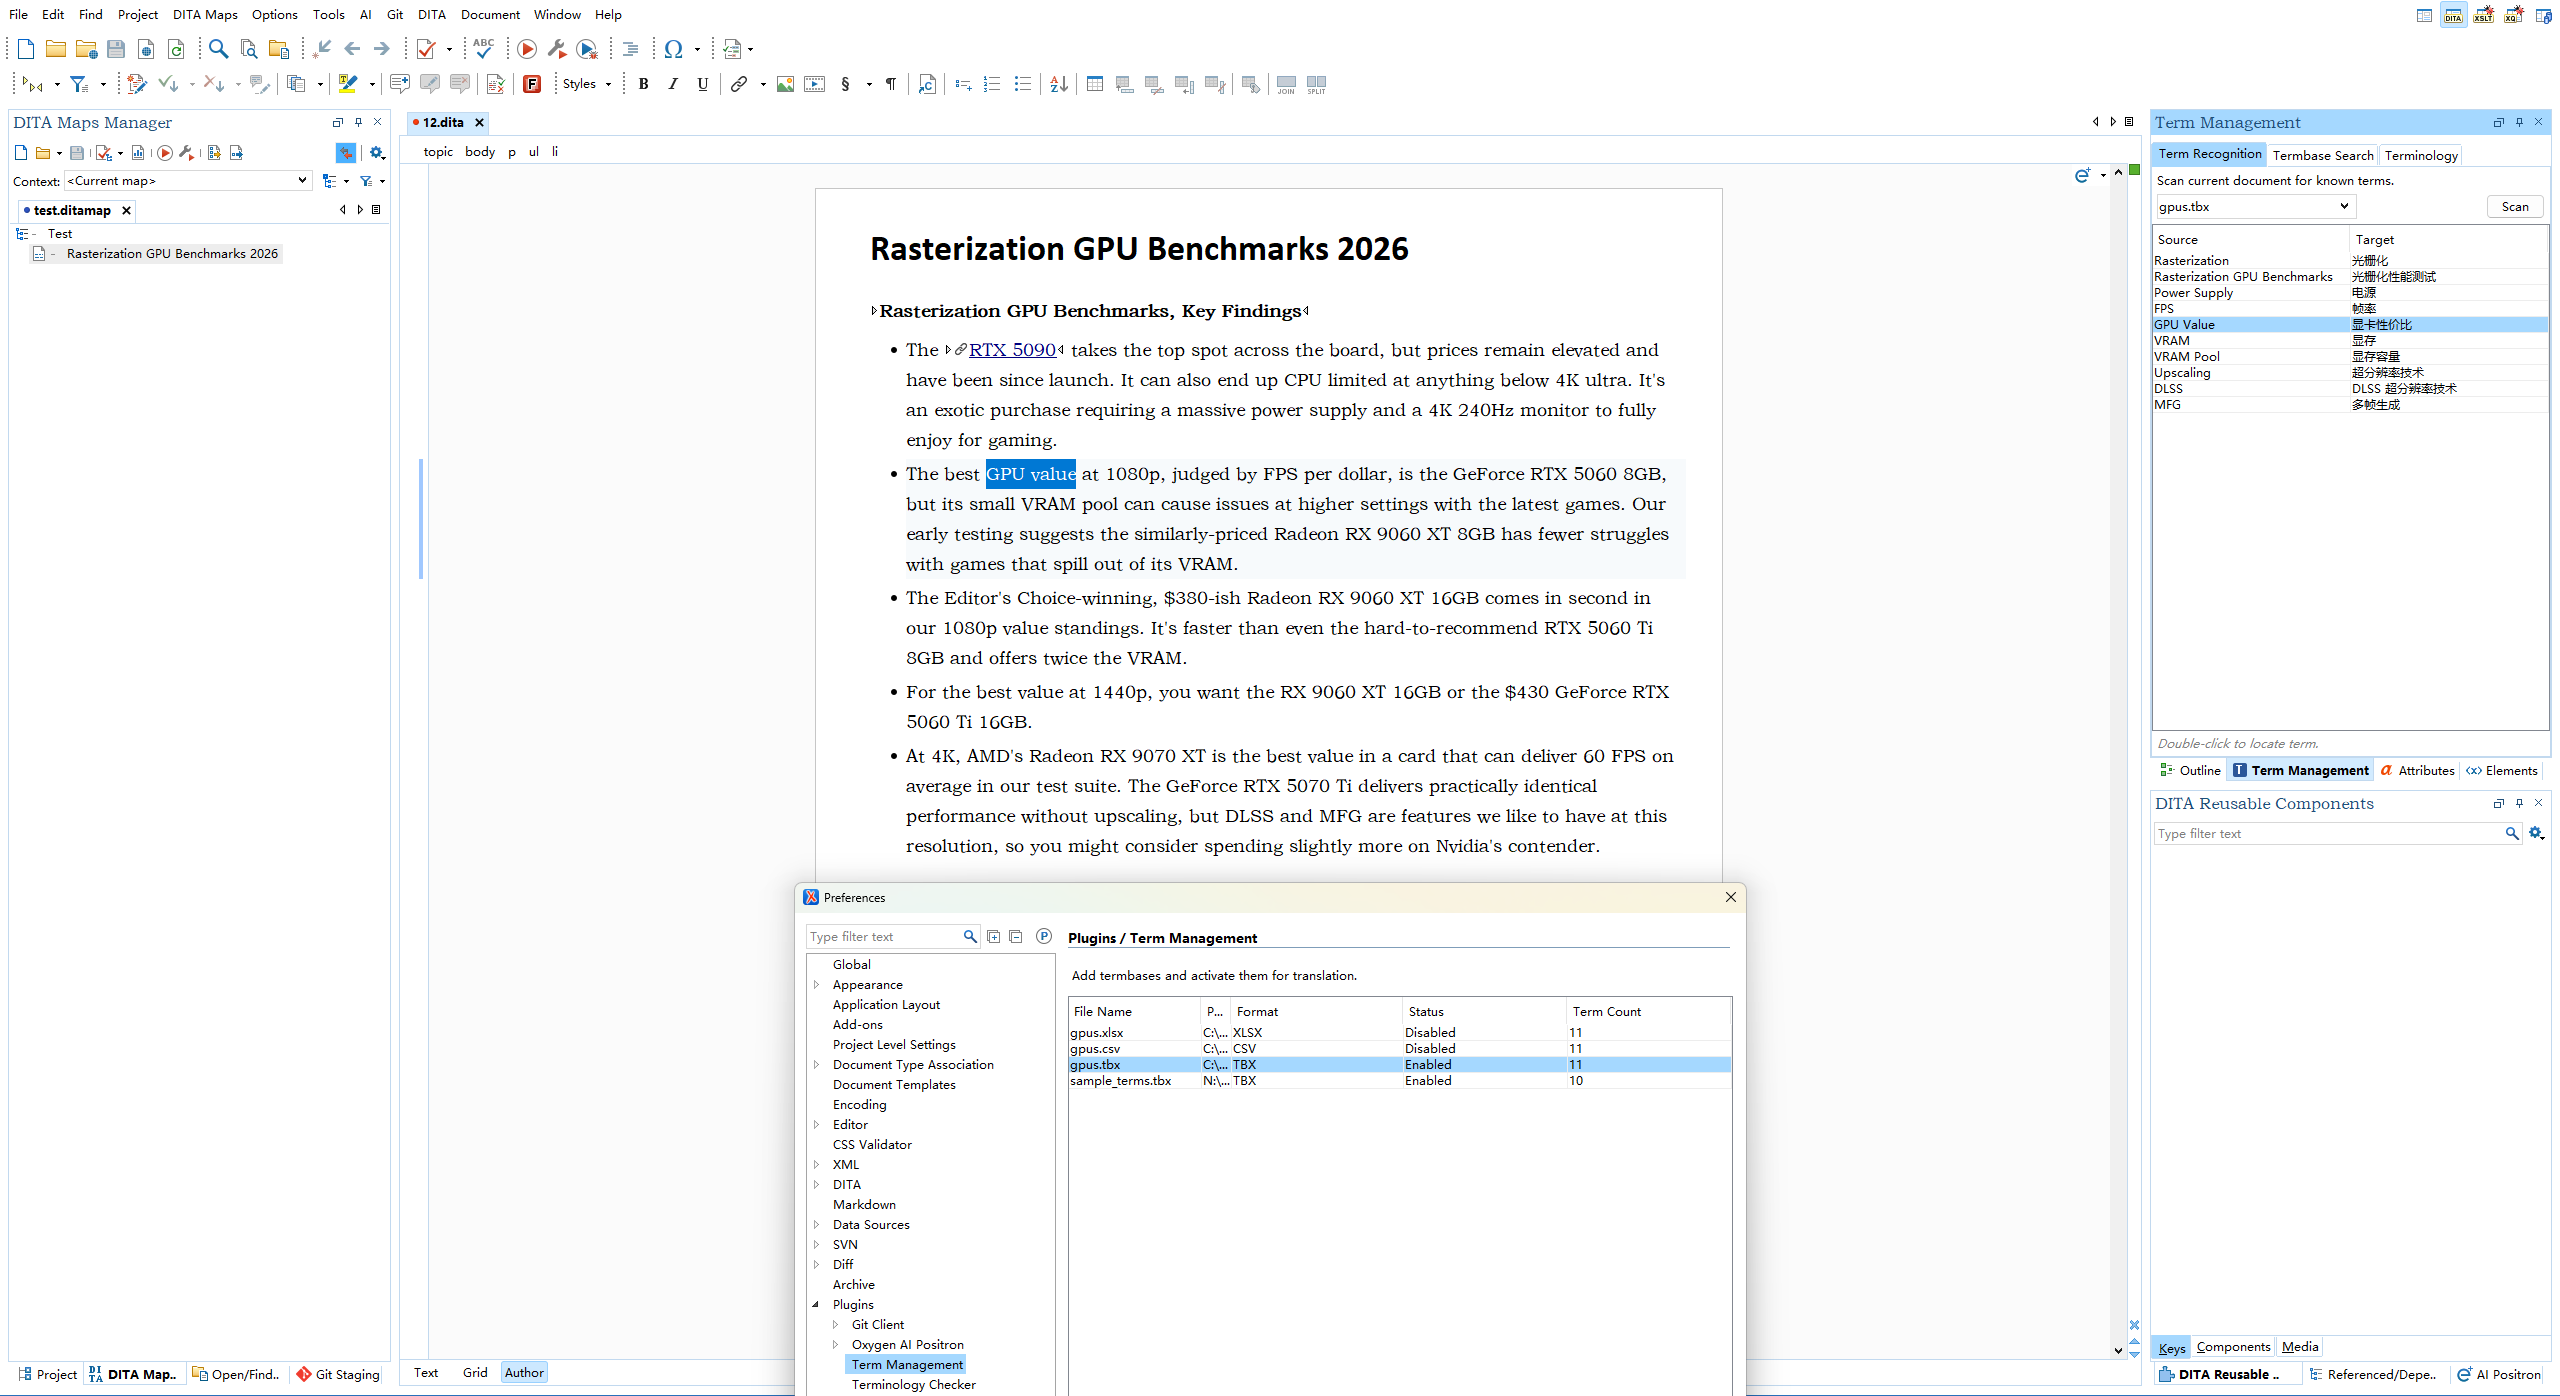
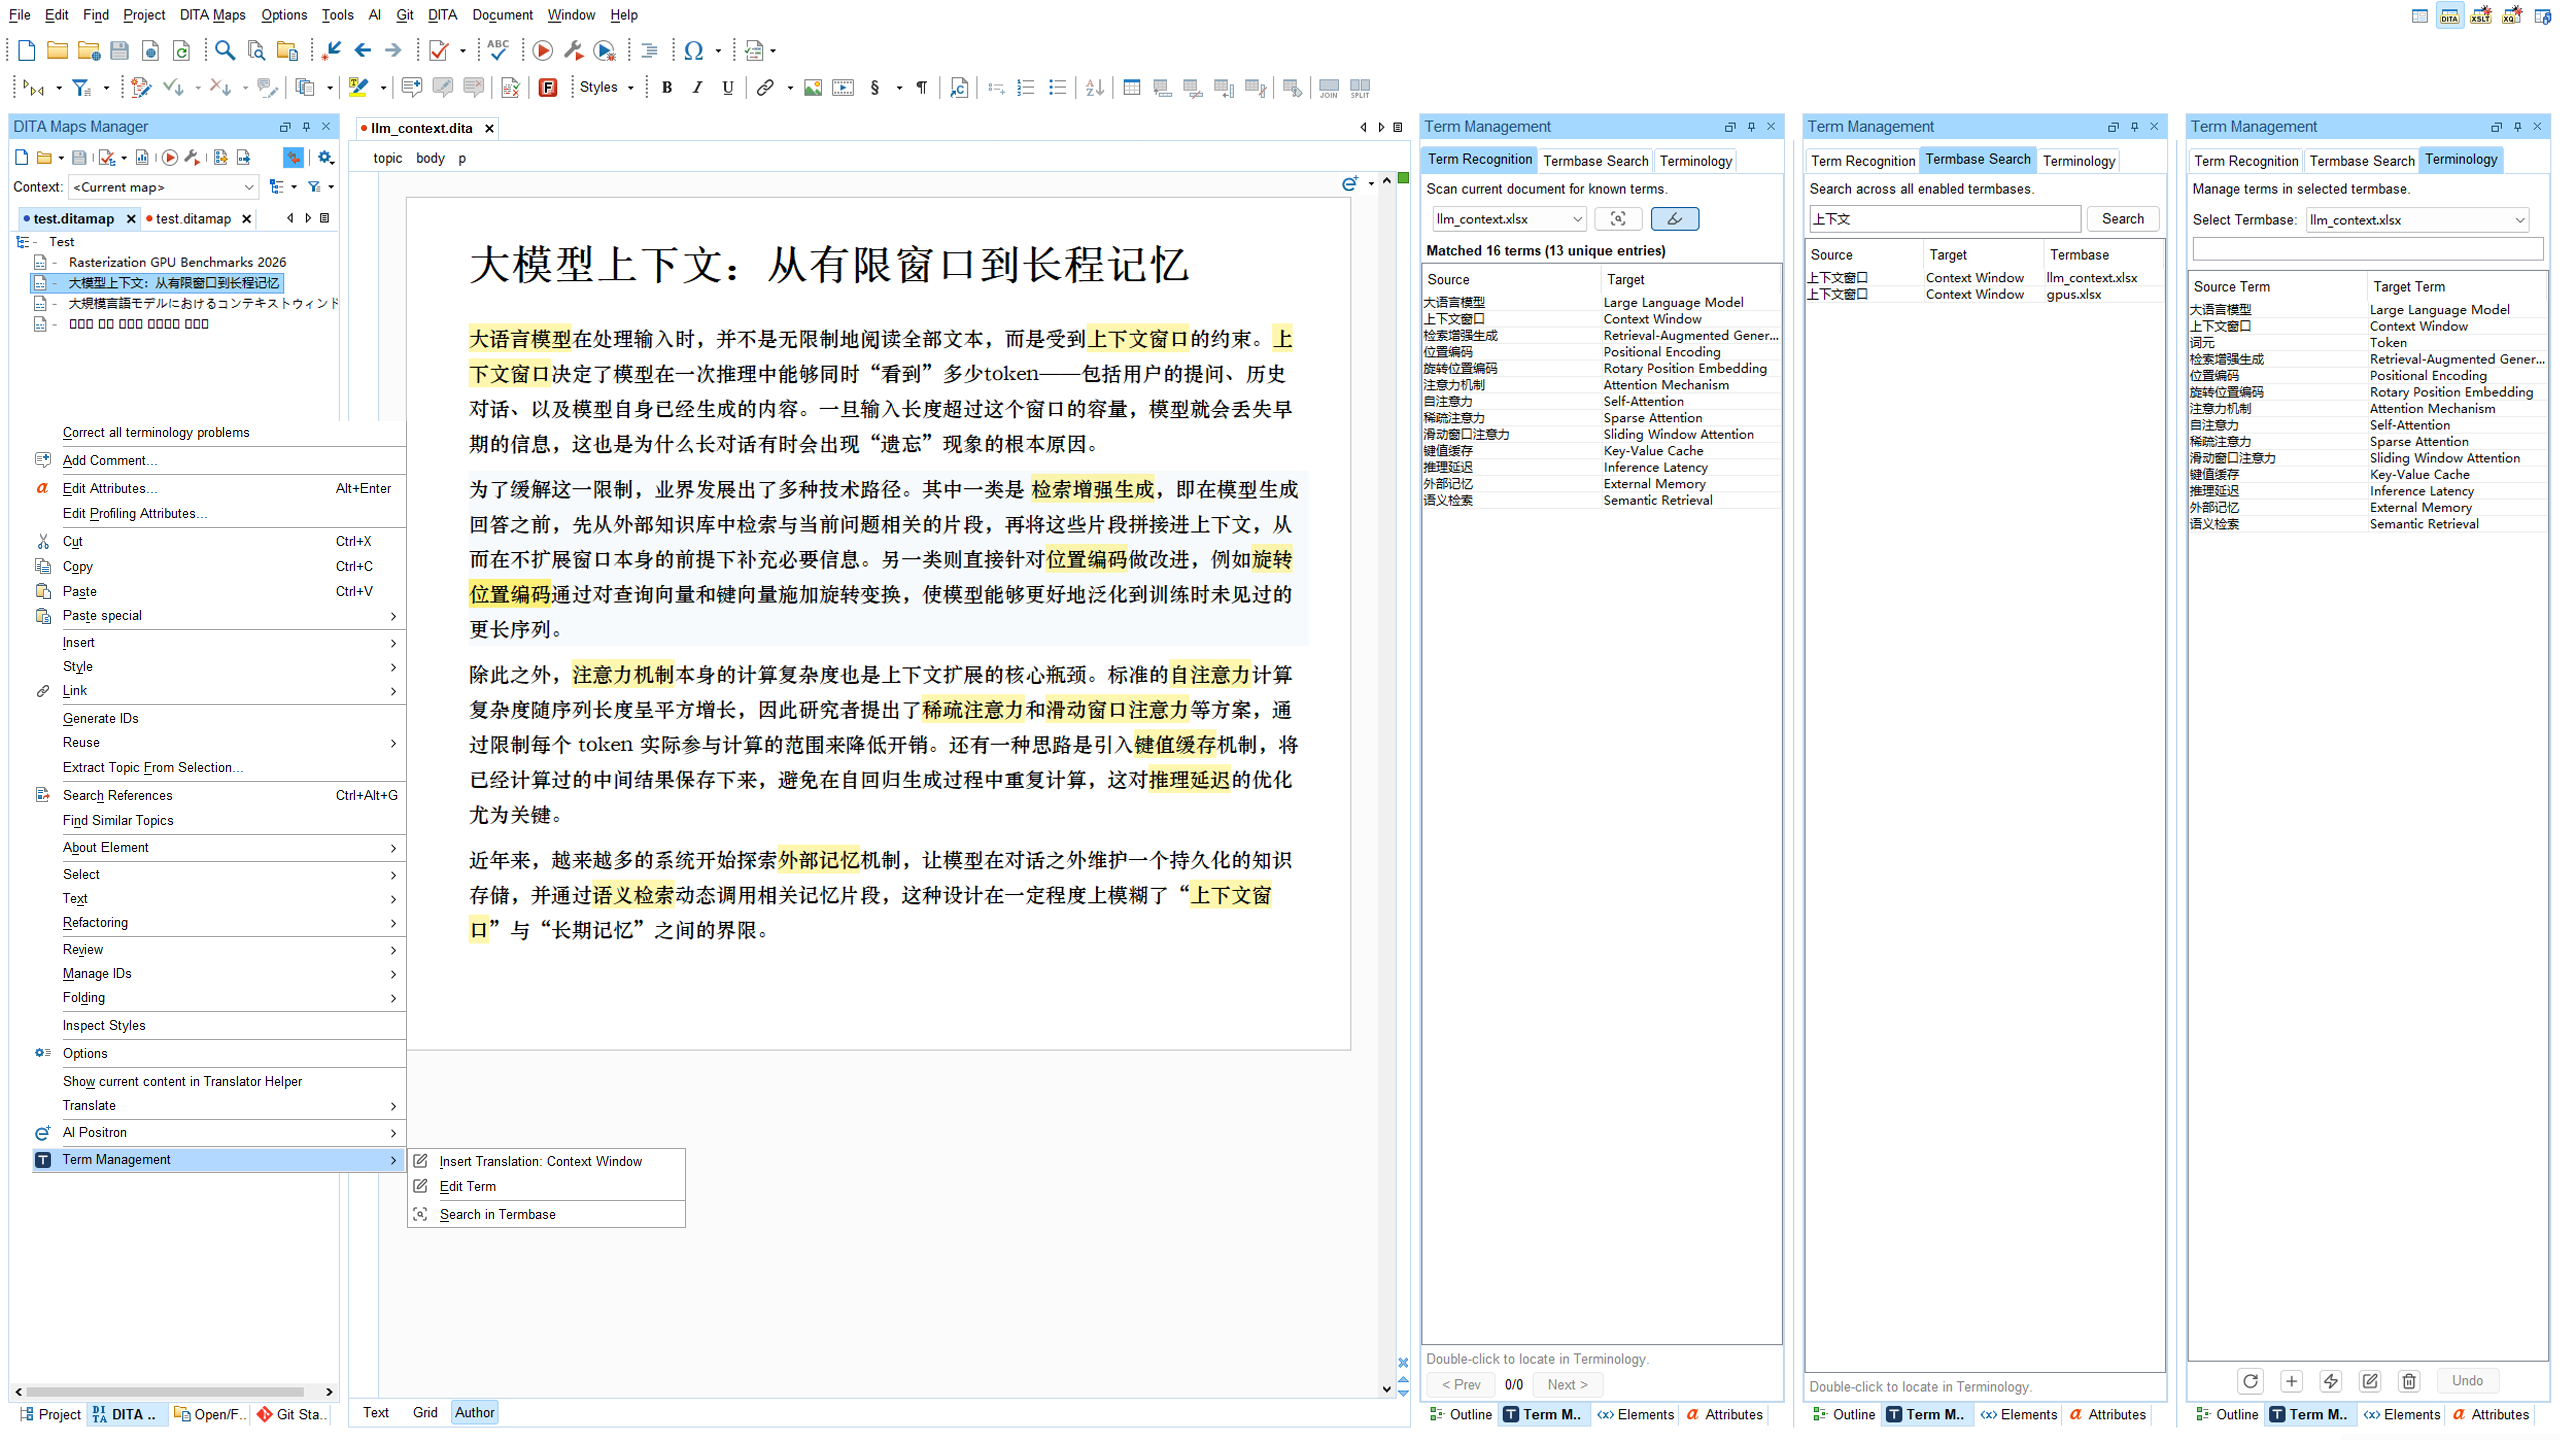
Feat: Update version to 1.0.9, enhance README and remove unused assets

diff --git a/README.md b/README.md
@@ -10,8 +10,6 @@ Oxygen XML Editor plugin for terminology management and translation assistance.
 ## Screenshots
 
 ![Plugin Overview](./assets/plugin_screenshot.png)
-![Highlight Feature](./assets/toggle_highlight_feature.png)
-![CJK Support](./assets/highlight_cjk.png)
 
 ## Features
 
@@ -53,6 +51,7 @@ When text is selected in the editor, right-click to access the **Term Management
 - **Chinese-aware sorting** — uses `Collator.getInstance(Locale.CHINESE)` for column sorting
 - **Duplicate detection** — warns when adding a term whose source already exists (same or different translation)
 - **File lock detection** — checks write access before saving; shows specific messages for locked XLSX files (e.g. open in Excel)
+- **User-facing error dialogs** — load, save, and reload failures show a message dialog instead of failing silently
 - Batch delete with confirmation: `Delete X term(s) from Y?`
 
 ### Termbase Search
@@ -74,7 +73,7 @@ When text is selected in the editor, right-click to access the **Term Management
 - **Enable / Disable** termbases without removing them
 - **Reload** termbase from disk (multi-select supported)
 - **Edit** opens termbase file in system default application
-- Configurations are persisted via Oxygen's `WSOptionsStorage` as a JSON-like string
+- Configurations are persisted via Oxygen's `WSOptionsStorage` as a JSON string (serialized with Gson)
 
 ### Term Entry Dialog
 - Source term (required) and target term fields
@@ -161,15 +160,15 @@ The deployable plugin package will be available at `output/term-management/`.
 
 ## Supported Formats
 
-## Language Identification
-
-Language tags follow the **BCP 47** standard (e.g., `en-US`, `zh-CN`, `ja-JP`). A reference table is available at [`language-tags-BCP-47.md`](./language-tags-BCP-47.md).
-
 | Format | Library | Notes |
 |--------|---------|-------|
 | CSV | OpenCSV | UTF-8 with BOM, first row header, BCP 47 language tags |
 | XLSX | Apache POI | First sheet, first row header |
 | TBX (ISO 30042) | JDK DOM | `xml:lang` attributes for language detection; supports both `<tig>` and `<ntig>` / `<termGrp>` structures |
+
+### Language Identification
+
+Language tags follow the **BCP 47** standard (e.g., `en-US`, `zh-CN`, `ja-JP`). A reference table is available at [`language-tags-BCP-47.md`](./language-tags-BCP-47.md).
 
 ## Project Structure
 
@@ -203,6 +202,8 @@ term-management/
 │   │   │   └── TermbaseRegistry.java
 │   │   ├── prefs/
 │   │   │   └── TermManagementPreferencePage.java
+│   │   ├── util/
+│   │   │   └── TermMatchUtils.java
 │   │   └── ui/
 │   │       ├── TermManagementView.java
 │   │       ├── TermRecognitionPanel.java
@@ -222,6 +223,10 @@ term-management/
 │           ├── quick_add.svg
 │           ├── edit.svg
 │           └── delete.svg
+├── src/test/java/com/example/termmgmt/service/   # Unit tests (handlers only)
+│   ├── CsvTermbaseHandlerTest.java
+│   ├── XlsxTermbaseHandlerTest.java
+│   └── TbxTermbaseHandlerTest.java
 ├── output/                    # Build output (not committed)
 │   └── term-management/
 └── reference/                 # Reference materials
@@ -243,6 +248,15 @@ term-management/
    ```bash
    mvn clean package
    ```
+
+### Testing
+Unit tests cover the termbase format handlers (`CsvTermbaseHandler`, `XlsxTermbaseHandler`, `TbxTermbaseHandler`), including round-trip save/load, encoding edge cases (UTF-8 BOM), malformed/edge-case input, and missing-file handling.
+
+Run the test suite:
+```bash
+mvn test
+```
+Note: `mvn test` runs tests only and does not produce a plugin package — use `mvn package` to build a deployable jar.
 
 ### IntelliJ IDEA Setup
 1. Open the project directory.

diff --git a/README.zh.md b/README.zh.md
@@ -5,8 +5,6 @@ Oxygen XML Editor 插件，用于术语管理和翻译辅助。
 ## 截图
 
 ![插件概览](./assets/plugin_screenshot.png)
-![高亮功能](./assets/toggle_highlight_feature.png)
-![CJK 支持](./assets/highlight_cjk.png)
 
 ## 功能特性
 
@@ -48,6 +46,7 @@ Oxygen XML Editor 插件，用于术语管理和翻译辅助。
 - **中文排序** — 使用 `Collator.getInstance(Locale.CHINESE)` 进行列排序
 - **重复检测** — 添加术语时检测源术语是否已存在（相同或不同译法均提示）
 - **文件锁定检测** — 写入前检查文件是否被其他程序占用，对 XLSX 显示特定提示
+- **用户可见的错误提示** — 加载、保存、重新加载失败时弹出提示对话框，不再静默失败
 - 批量删除带确认：`从 Y 中删除 X 个术语？`
 
 ### 术语库搜索
@@ -69,7 +68,7 @@ Oxygen XML Editor 插件，用于术语管理和翻译辅助。
 - **启用 / 禁用**术语库（无需移除）
 - **重新加载**术语库（支持多选）
 - **编辑**操作用系统默认应用打开术语库文件
-- 配置通过 Oxygen 的 `WSOptionsStorage` 以 JSON 格式持久化
+- 配置通过 Oxygen 的 `WSOptionsStorage` 以 JSON 字符串持久化（使用 Gson 序列化）
 
 ### 术语条目对话框
 - 源语（必填）和目标语输入框
@@ -156,15 +155,15 @@ Oxygen XML Editor 插件，用于术语管理和翻译辅助。
 
 ## 支持的格式
 
-## 语言标识
-
-语言标签遵循 **BCP 47** 标准（例如 `en-US`、`zh-CN`、`ja-JP`）。参考表见 [`language-tags-BCP-47.md`](./language-tags-BCP-47.md)。
-
 | 格式 | 库 | 备注 |
 |------|----|------|
 | CSV | OpenCSV | UTF-8 带 BOM 编码，首行为表头，BCP 47 语言标签 |
 | XLSX | Apache POI | 第一个工作表，首行为表头 |
 | TBX（ISO 30042） | JDK DOM | 使用 `xml:lang` 属性检测语言；支持 `<tig>` 和 `<ntig>` / `<termGrp>` 结构 |
+
+### 语言标识
+
+语言标签遵循 **BCP 47** 标准（例如 `en-US`、`zh-CN`、`ja-JP`）。参考表见 [`language-tags-BCP-47.md`](./language-tags-BCP-47.md)。
 
 ## 项目结构
 
@@ -198,6 +197,8 @@ term-management/
 │   │   │   └── TermbaseRegistry.java
 │   │   ├── prefs/
 │   │   │   └── TermManagementPreferencePage.java
+│   │   ├── util/
+│   │   │   └── TermMatchUtils.java
 │   │   └── ui/
 │   │       ├── TermManagementView.java
 │   │       ├── TermRecognitionPanel.java
@@ -217,6 +218,10 @@ term-management/
 │           ├── quick_add.svg
 │           ├── edit.svg
 │           └── delete.svg
+├── src/test/java/com/example/termmgmt/service/   # 单元测试（仅覆盖 handler 层）
+│   ├── CsvTermbaseHandlerTest.java
+│   ├── XlsxTermbaseHandlerTest.java
+│   └── TbxTermbaseHandlerTest.java
 ├── output/                    # 构建输出（不提交）
 │   └── term-management/
 └── reference/                 # 参考资料
@@ -238,6 +243,15 @@ term-management/
    ```bash
    mvn clean package
    ```
+
+### 测试
+单元测试覆盖三个术语库格式解析器（`CsvTermbaseHandler`、`XlsxTermbaseHandler`、`TbxTermbaseHandler`），包括读写往返、编码边界情况（UTF-8 BOM）、异常/边界输入、文件不存在等场景。
+
+运行测试：
+```bash
+mvn test
+```
+注意：`mvn test` 只运行测试，不会生成插件包；生成可部署的 jar 需要运行 `mvn package`。
 
 ### IntelliJ IDEA 设置
 1. 打开项目目录。
